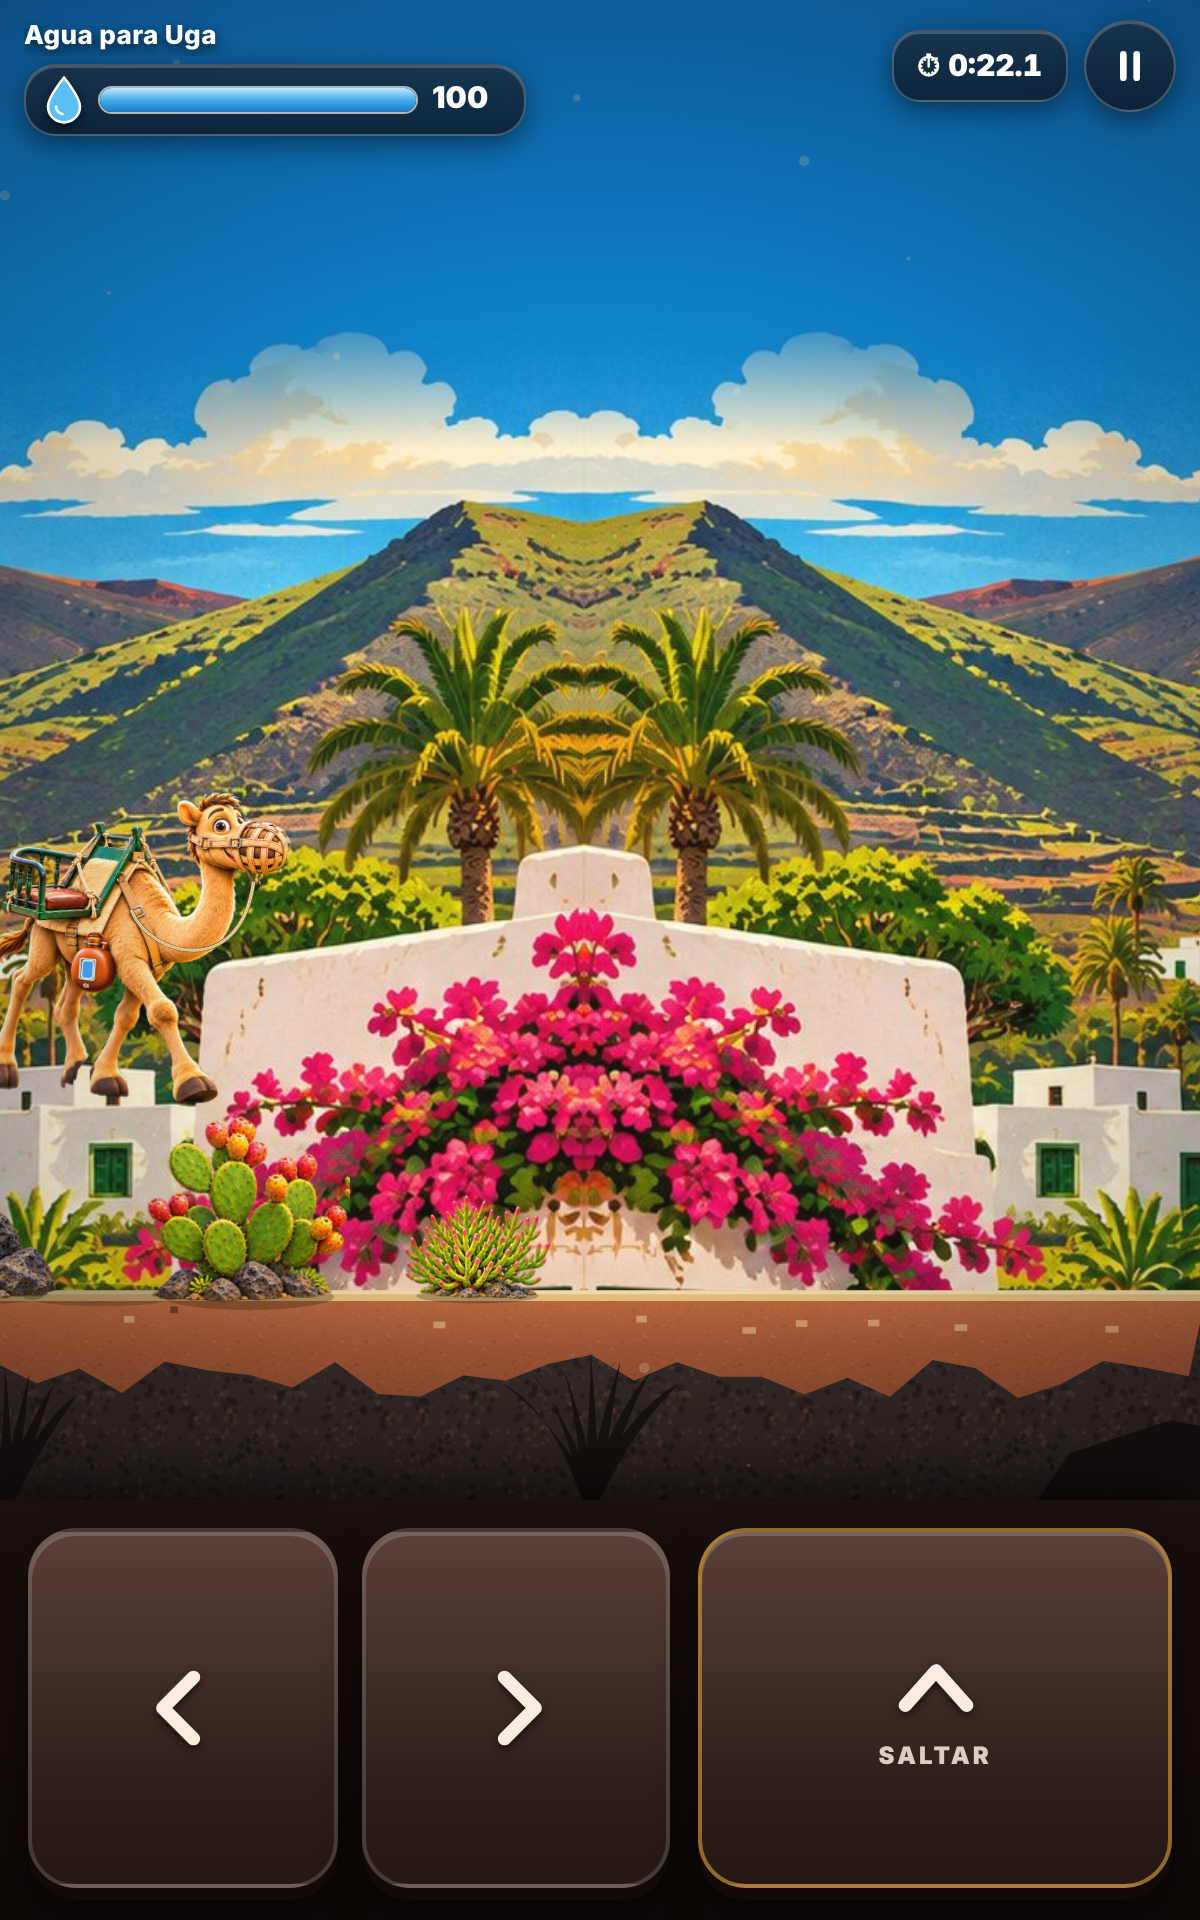
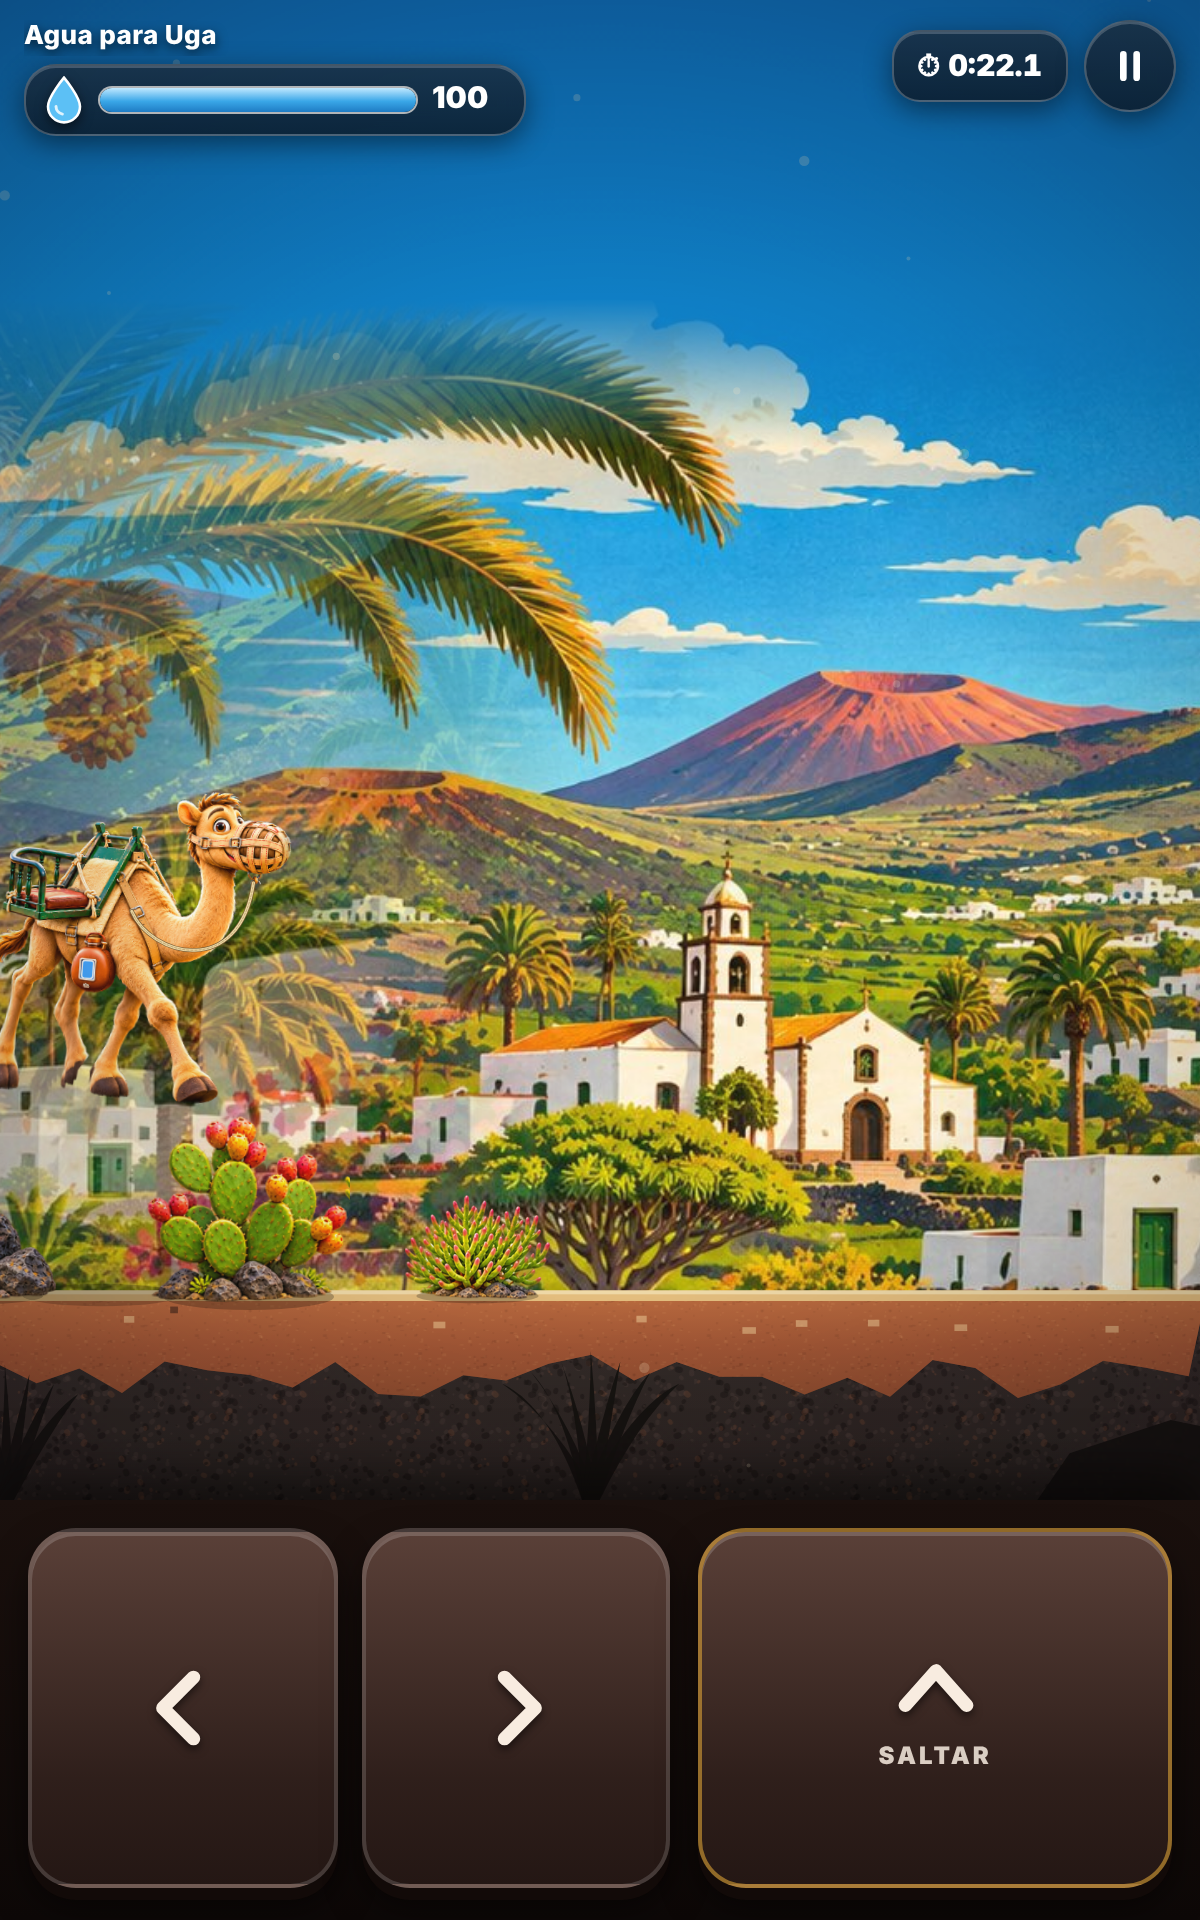
1.13.1: rocas y repisas con piedra volcánica ilustrada; paisajes enlazados sin espejo
Claude-Session: https://claude.ai/code/session_01H2Jf8v1MHtV6zTpVoU4WWj

diff --git a/docs/app/dibujo.js b/docs/app/dibujo.js
@@ -472,19 +472,28 @@
     porTema: [0, 1, 2, 3, 4, 5] };
   function fotoTema(tema) {
     const f = PAI.fotos[PAI.porTema[tema] || 0];
-    if (!f.img && typeof Image !== 'undefined') { f.img = new Image(); f.img.onload = () => { f.ok = true; }; f.img.src = f.src; }
+    if (!f.img && typeof Image !== 'undefined') {
+      f.img = new Image();
+      f.img.onload = () => {   // mosaico sin costuras: el final de la imagen se funde con su principio (sin espejo, que duplicaba casas)
+        const w = f.img.naturalWidth, h = f.img.naturalHeight, ov = Math.round(w * 0.3), c = document.createElement('canvas'); c.width = w - ov; c.height = h;
+        const g = c.getContext('2d'); g.drawImage(f.img, 0, 0);
+        const q = document.createElement('canvas'); q.width = ov; q.height = h; const gq = q.getContext('2d'); gq.drawImage(f.img, w - ov, 0, ov, h, 0, 0, ov, h);
+        gq.globalCompositeOperation = 'destination-in'; const gr = gq.createLinearGradient(0, 0, ov, 0); gr.addColorStop(0, 'rgba(0,0,0,1)'); gr.addColorStop(1, 'rgba(0,0,0,0)'); gq.fillStyle = gr; gq.fillRect(0, 0, ov, h);
+        g.drawImage(q, 0, 0); f.tile = c; f.ok = true;
+      };
+      f.img.src = f.src;
+    }
     return f.ok ? f : null;
   }
   fotoTema(0);
   function dibujaPaisaje(ctx, W, H, u, cam, TM, t, F) {
     const suelo = (PAI.suelo != null ? PAI.suelo : H - H * (W < H ? 0.27 : 0.3)) + u * 0.5;   // el dibujo se apoya en el suelo que se ve en pantalla
-    const alto = Math.max(suelo * 0.78, u * 6.5), k = alto / PAI.h, ancho = PAI.w * k, top = suelo - alto;
+    const alto = Math.max(suelo * 0.78, u * 6.5), k = alto / PAI.h, ancho = F.tile.width * k, top = suelo - alto;
     let g = ctx.createLinearGradient(0, 0, 0, Math.max(1, top + 2)); g.addColorStop(0, F.cielo[0]); g.addColorStop(1, F.cielo[1]); ctx.fillStyle = g; ctx.fillRect(0, 0, W, Math.max(0, top) + 2);
     const off = cam.x * u * 0.18, i0 = Math.floor(off / ancho);
     for (let i = i0; ancho * i - off < W; i++) {
       const x = ancho * i - off;
-      if (i % 2 === 0) ctx.drawImage(F.img, x, top, ancho + 1, alto);
-      else { ctx.save(); ctx.translate(x + ancho, top); ctx.scale(-1, 1); ctx.drawImage(F.img, 0, 0, ancho + 1, alto); ctx.restore(); }
+      ctx.drawImage(F.tile, x, top, ancho + 1, alto);
     }
     if (top > 0) { const fz = alto * 0.14, gf = ctx.createLinearGradient(0, top - 1, 0, top + fz); gf.addColorStop(0, F.cielo[1]); gf.addColorStop(1, F.cielo[1] + '00'); ctx.fillStyle = gf; ctx.fillRect(0, top - 1, W, fz + 1); }   // empalme suave entre el cielo y el dibujo
     ctx.fillStyle = '#16100f'; ctx.fillRect(0, suelo - 1, W, H - suelo + 1);
@@ -615,6 +624,9 @@
   }
 
   function dibujaRoca(ctx, s, base, W, H, u, sx, sy) {
+    if (FLO.ok) { const x0 = sx(s.x0), x1 = sx(s.x1), yt = sy(s.top), yb = sy(base), m = FLO.m.roca, w = x1 - x0, h = yb - yt, sp = u * 0.25;
+      ctx.fillStyle = 'rgba(0,0,0,.3)'; ctx.beginPath(); ctx.ellipse(x0 + w / 2, yb, w * 0.62, u * 0.13, 0, 0, TAU); ctx.fill();
+      ctx.drawImage(FLO.img, m[0], m[1], m[2], m[3], x0 - sp, yt - h * 0.08, w + sp * 2, h * 1.12); return; }
     const x0 = sx(s.x0), x1 = sx(s.x1), yt = sy(s.top), yb = sy(base), w = x1 - x0, h = yb - yt, sd = Math.floor(s.x0 * 7);
     const P = [[0, 1], [0.0, 0.3], [0.1, 0.08], [0.32, 0.0], [0.58, 0.05], [0.82, 0.02], [1.0, 0.22], [1.0, 1]];
     const pts = P.map(([a, b], i) => [x0 + w * (a + (i > 0 && i < 6 ? (hash(sd + i) - 0.5) * 0.04 : 0)), yt + h * (b + (i > 0 && i < 6 ? hash(sd + i + 9) * 0.03 : 0))]);
@@ -634,6 +646,12 @@
   }
 
   function dibujaRepisa(ctx, s, W, H, u, sx, sy) {
+    if (FLO.ok) { // repisa de piedra seca: tramos del muro ilustrado puestos en fila
+      const x0 = sx(s.x0), x1 = sx(s.x1), yt = sy(s.top), m = FLO.m.muro, th = Math.max(u * 0.7, 8), tw = th * m[2] / m[3] * 0.62;
+      ctx.fillStyle = 'rgba(0,0,0,.28)'; ctx.fillRect(x0 + u * 0.1, yt + th * 0.9, x1 - x0 - u * 0.1, u * 0.18);
+      ctx.save(); ctx.beginPath(); ctx.rect(x0 - u * 0.12, yt - th * 0.25, x1 - x0 + u * 0.24, th * 1.3); ctx.clip();
+      for (let x = x0 - u * 0.12, i = 0; x < x1 + u * 0.12; x += tw * 0.92, i++) { const sxx = m[0] + (i % 2 ? m[2] * 0.3 : 0); ctx.drawImage(FLO.img, sxx, m[1] + m[3] * 0.05, m[2] * 0.62, m[3] * 0.9, x, yt - th * 0.15, tw, th); }
+      ctx.restore(); return; }
     const x0 = sx(s.x0), x1 = sx(s.x1), yt = sy(s.top), th = Math.max(u * 0.34, 5), w = x1 - x0;
     ctx.fillStyle = 'rgba(0,0,0,.28)'; ctx.fillRect(x0 + u * 0.1, yt + th, w - u * 0.1, u * 0.2);
     let g = ctx.createLinearGradient(0, yt, 0, yt + th); g.addColorStop(0, '#c7b6a0'); g.addColorStop(0.35, COL.repisa); g.addColorStop(1, '#5d5047'); ctx.fillStyle = g; rr(ctx, x0, yt, w, th, u * 0.08); ctx.fill();

diff --git a/www/dibujo.js b/www/dibujo.js
@@ -472,19 +472,28 @@
     porTema: [0, 1, 2, 3, 4, 5] };
   function fotoTema(tema) {
     const f = PAI.fotos[PAI.porTema[tema] || 0];
-    if (!f.img && typeof Image !== 'undefined') { f.img = new Image(); f.img.onload = () => { f.ok = true; }; f.img.src = f.src; }
+    if (!f.img && typeof Image !== 'undefined') {
+      f.img = new Image();
+      f.img.onload = () => {   // mosaico sin costuras: el final de la imagen se funde con su principio (sin espejo, que duplicaba casas)
+        const w = f.img.naturalWidth, h = f.img.naturalHeight, ov = Math.round(w * 0.3), c = document.createElement('canvas'); c.width = w - ov; c.height = h;
+        const g = c.getContext('2d'); g.drawImage(f.img, 0, 0);
+        const q = document.createElement('canvas'); q.width = ov; q.height = h; const gq = q.getContext('2d'); gq.drawImage(f.img, w - ov, 0, ov, h, 0, 0, ov, h);
+        gq.globalCompositeOperation = 'destination-in'; const gr = gq.createLinearGradient(0, 0, ov, 0); gr.addColorStop(0, 'rgba(0,0,0,1)'); gr.addColorStop(1, 'rgba(0,0,0,0)'); gq.fillStyle = gr; gq.fillRect(0, 0, ov, h);
+        g.drawImage(q, 0, 0); f.tile = c; f.ok = true;
+      };
+      f.img.src = f.src;
+    }
     return f.ok ? f : null;
   }
   fotoTema(0);
   function dibujaPaisaje(ctx, W, H, u, cam, TM, t, F) {
     const suelo = (PAI.suelo != null ? PAI.suelo : H - H * (W < H ? 0.27 : 0.3)) + u * 0.5;   // el dibujo se apoya en el suelo que se ve en pantalla
-    const alto = Math.max(suelo * 0.78, u * 6.5), k = alto / PAI.h, ancho = PAI.w * k, top = suelo - alto;
+    const alto = Math.max(suelo * 0.78, u * 6.5), k = alto / PAI.h, ancho = F.tile.width * k, top = suelo - alto;
     let g = ctx.createLinearGradient(0, 0, 0, Math.max(1, top + 2)); g.addColorStop(0, F.cielo[0]); g.addColorStop(1, F.cielo[1]); ctx.fillStyle = g; ctx.fillRect(0, 0, W, Math.max(0, top) + 2);
     const off = cam.x * u * 0.18, i0 = Math.floor(off / ancho);
     for (let i = i0; ancho * i - off < W; i++) {
       const x = ancho * i - off;
-      if (i % 2 === 0) ctx.drawImage(F.img, x, top, ancho + 1, alto);
-      else { ctx.save(); ctx.translate(x + ancho, top); ctx.scale(-1, 1); ctx.drawImage(F.img, 0, 0, ancho + 1, alto); ctx.restore(); }
+      ctx.drawImage(F.tile, x, top, ancho + 1, alto);
     }
     if (top > 0) { const fz = alto * 0.14, gf = ctx.createLinearGradient(0, top - 1, 0, top + fz); gf.addColorStop(0, F.cielo[1]); gf.addColorStop(1, F.cielo[1] + '00'); ctx.fillStyle = gf; ctx.fillRect(0, top - 1, W, fz + 1); }   // empalme suave entre el cielo y el dibujo
     ctx.fillStyle = '#16100f'; ctx.fillRect(0, suelo - 1, W, H - suelo + 1);
@@ -615,6 +624,9 @@
   }
 
   function dibujaRoca(ctx, s, base, W, H, u, sx, sy) {
+    if (FLO.ok) { const x0 = sx(s.x0), x1 = sx(s.x1), yt = sy(s.top), yb = sy(base), m = FLO.m.roca, w = x1 - x0, h = yb - yt, sp = u * 0.25;
+      ctx.fillStyle = 'rgba(0,0,0,.3)'; ctx.beginPath(); ctx.ellipse(x0 + w / 2, yb, w * 0.62, u * 0.13, 0, 0, TAU); ctx.fill();
+      ctx.drawImage(FLO.img, m[0], m[1], m[2], m[3], x0 - sp, yt - h * 0.08, w + sp * 2, h * 1.12); return; }
     const x0 = sx(s.x0), x1 = sx(s.x1), yt = sy(s.top), yb = sy(base), w = x1 - x0, h = yb - yt, sd = Math.floor(s.x0 * 7);
     const P = [[0, 1], [0.0, 0.3], [0.1, 0.08], [0.32, 0.0], [0.58, 0.05], [0.82, 0.02], [1.0, 0.22], [1.0, 1]];
     const pts = P.map(([a, b], i) => [x0 + w * (a + (i > 0 && i < 6 ? (hash(sd + i) - 0.5) * 0.04 : 0)), yt + h * (b + (i > 0 && i < 6 ? hash(sd + i + 9) * 0.03 : 0))]);
@@ -634,6 +646,12 @@
   }
 
   function dibujaRepisa(ctx, s, W, H, u, sx, sy) {
+    if (FLO.ok) { // repisa de piedra seca: tramos del muro ilustrado puestos en fila
+      const x0 = sx(s.x0), x1 = sx(s.x1), yt = sy(s.top), m = FLO.m.muro, th = Math.max(u * 0.7, 8), tw = th * m[2] / m[3] * 0.62;
+      ctx.fillStyle = 'rgba(0,0,0,.28)'; ctx.fillRect(x0 + u * 0.1, yt + th * 0.9, x1 - x0 - u * 0.1, u * 0.18);
+      ctx.save(); ctx.beginPath(); ctx.rect(x0 - u * 0.12, yt - th * 0.25, x1 - x0 + u * 0.24, th * 1.3); ctx.clip();
+      for (let x = x0 - u * 0.12, i = 0; x < x1 + u * 0.12; x += tw * 0.92, i++) { const sxx = m[0] + (i % 2 ? m[2] * 0.3 : 0); ctx.drawImage(FLO.img, sxx, m[1] + m[3] * 0.05, m[2] * 0.62, m[3] * 0.9, x, yt - th * 0.15, tw, th); }
+      ctx.restore(); return; }
     const x0 = sx(s.x0), x1 = sx(s.x1), yt = sy(s.top), th = Math.max(u * 0.34, 5), w = x1 - x0;
     ctx.fillStyle = 'rgba(0,0,0,.28)'; ctx.fillRect(x0 + u * 0.1, yt + th, w - u * 0.1, u * 0.2);
     let g = ctx.createLinearGradient(0, yt, 0, yt + th); g.addColorStop(0, '#c7b6a0'); g.addColorStop(0.35, COL.repisa); g.addColorStop(1, '#5d5047'); ctx.fillStyle = g; rr(ctx, x0, yt, w, th, u * 0.08); ctx.fill();

diff --git a/docs/app/sw.js b/docs/app/sw.js
@@ -1,7 +1,7 @@
 // Service worker: deja la versión web disponible sin conexión.
 // En la app Android no hace falta (los archivos ya van dentro del APK) y podría servir
 // una versión antigua tras actualizar, así que allí se da de baja solo.
-const CACHE = 'martin-v1.13.0';
+const CACHE = 'martin-v1.13.1';
 const ASSETS = ['./', 'index.html', 'martin.js', 'niveles.js', 'juego.js', 'dibujo.js', 'camello.png', 'portada.jpg', 'paisaje.jpg', 'flora.png', 'paisaje-uga.jpg', 'paisaje-timanfaya.jpg', 'paisaje-geria.jpg', 'paisaje-costa.jpg', 'paisaje-ocaso.jpg', 'manifest.webmanifest', 'icons/icon-192.png', 'icons/icon-512.png', 'icons/icon-maskable-512.png', 'icons/apple-touch-icon.png', 'i18n-en.js', 'i18n-fr.js', 'i18n-de.js', 'i18n-it.js', 'idioma.js', 'masjuegos.js', 'audio-suave.js', 'turno.js', 'contador.js', 'invitacion.js', 'publicas.js', 'juegos/ajedrez.png', 'juegos/chinchon.png', 'juegos/pumba.png', 'juegos/damas.png', 'juegos/parchis.png', 'juegos/poker.png', 'juegos/uno.png', 'juegos/martin.png'];
 const NATIVE = self.location.hostname === 'localhost' && self.location.protocol === 'https:';
 

diff --git a/www/sw.js b/www/sw.js
@@ -1,7 +1,7 @@
 // Service worker: deja la versión web disponible sin conexión.
 // En la app Android no hace falta (los archivos ya van dentro del APK) y podría servir
 // una versión antigua tras actualizar, así que allí se da de baja solo.
-const CACHE = 'martin-v1.13.0';
+const CACHE = 'martin-v1.13.1';
 const ASSETS = ['./', 'index.html', 'martin.js', 'niveles.js', 'juego.js', 'dibujo.js', 'camello.png', 'portada.jpg', 'paisaje.jpg', 'flora.png', 'paisaje-uga.jpg', 'paisaje-timanfaya.jpg', 'paisaje-geria.jpg', 'paisaje-costa.jpg', 'paisaje-ocaso.jpg', 'manifest.webmanifest', 'icons/icon-192.png', 'icons/icon-512.png', 'icons/icon-maskable-512.png', 'icons/apple-touch-icon.png', 'i18n-en.js', 'i18n-fr.js', 'i18n-de.js', 'i18n-it.js', 'idioma.js', 'masjuegos.js', 'audio-suave.js', 'turno.js', 'contador.js', 'invitacion.js', 'publicas.js', 'juegos/ajedrez.png', 'juegos/chinchon.png', 'juegos/pumba.png', 'juegos/damas.png', 'juegos/parchis.png', 'juegos/poker.png', 'juegos/uno.png', 'juegos/martin.png'];
 const NATIVE = self.location.hostname === 'localhost' && self.location.protocol === 'https:';
 

diff --git a/docs/app/index.html b/docs/app/index.html
@@ -407,7 +407,7 @@ function openThemes() {
   AvisoTurno.enlazar();
 }
 
-const APP_VERSION = '1.13.0';
+const APP_VERSION = '1.13.1';
 const REPO = 'csuarezsm/Martin';
 const MAX_ARCHIVE = 500;
 const uid = () => Math.random().toString(36).slice(2, 10);

diff --git a/www/index.html b/www/index.html
@@ -407,7 +407,7 @@ function openThemes() {
   AvisoTurno.enlazar();
 }
 
-const APP_VERSION = '1.13.0';
+const APP_VERSION = '1.13.1';
 const REPO = 'csuarezsm/Martin';
 const MAX_ARCHIVE = 500;
 const uid = () => Math.random().toString(36).slice(2, 10);

diff --git a/README.md b/README.md
@@ -2,7 +2,7 @@
 
 Un camello canario joven de Uga lleva el agua por los caminos que dejó la tormenta: lava, rocas, huecos y bajadas. **6 niveles de plataformas** con tres estrellas cada uno, a veces con dos caminos (uno rápido y arriesgado, otro lento y seguro), y un **reto diario** igual para todos con ranking.
 Para Android e iPhone. Gratis, sin anuncios y sin cuentas. App Capacitor + web (`www/`). Todo se guarda en el móvil; solo el reto diario usa el servidor de juegos (nombre y pulsaciones, para comprobar el tiempo).
-Paquete: `com.itcanarias.martin` · versión 1.13.0
+Paquete: `com.itcanarias.martin` · versión 1.13.1
 
 **iPhone y navegadores**: la misma app se publica como versión web instalable en https://csuarezsm.github.io/Martin/app/ (GitHub Pages, carpeta `docs/app`, copia de `www/`). En Safari: Compartir → «Añadir a pantalla de inicio». Tras cambiar `www/`, ejecuta `npm run web`.
 
